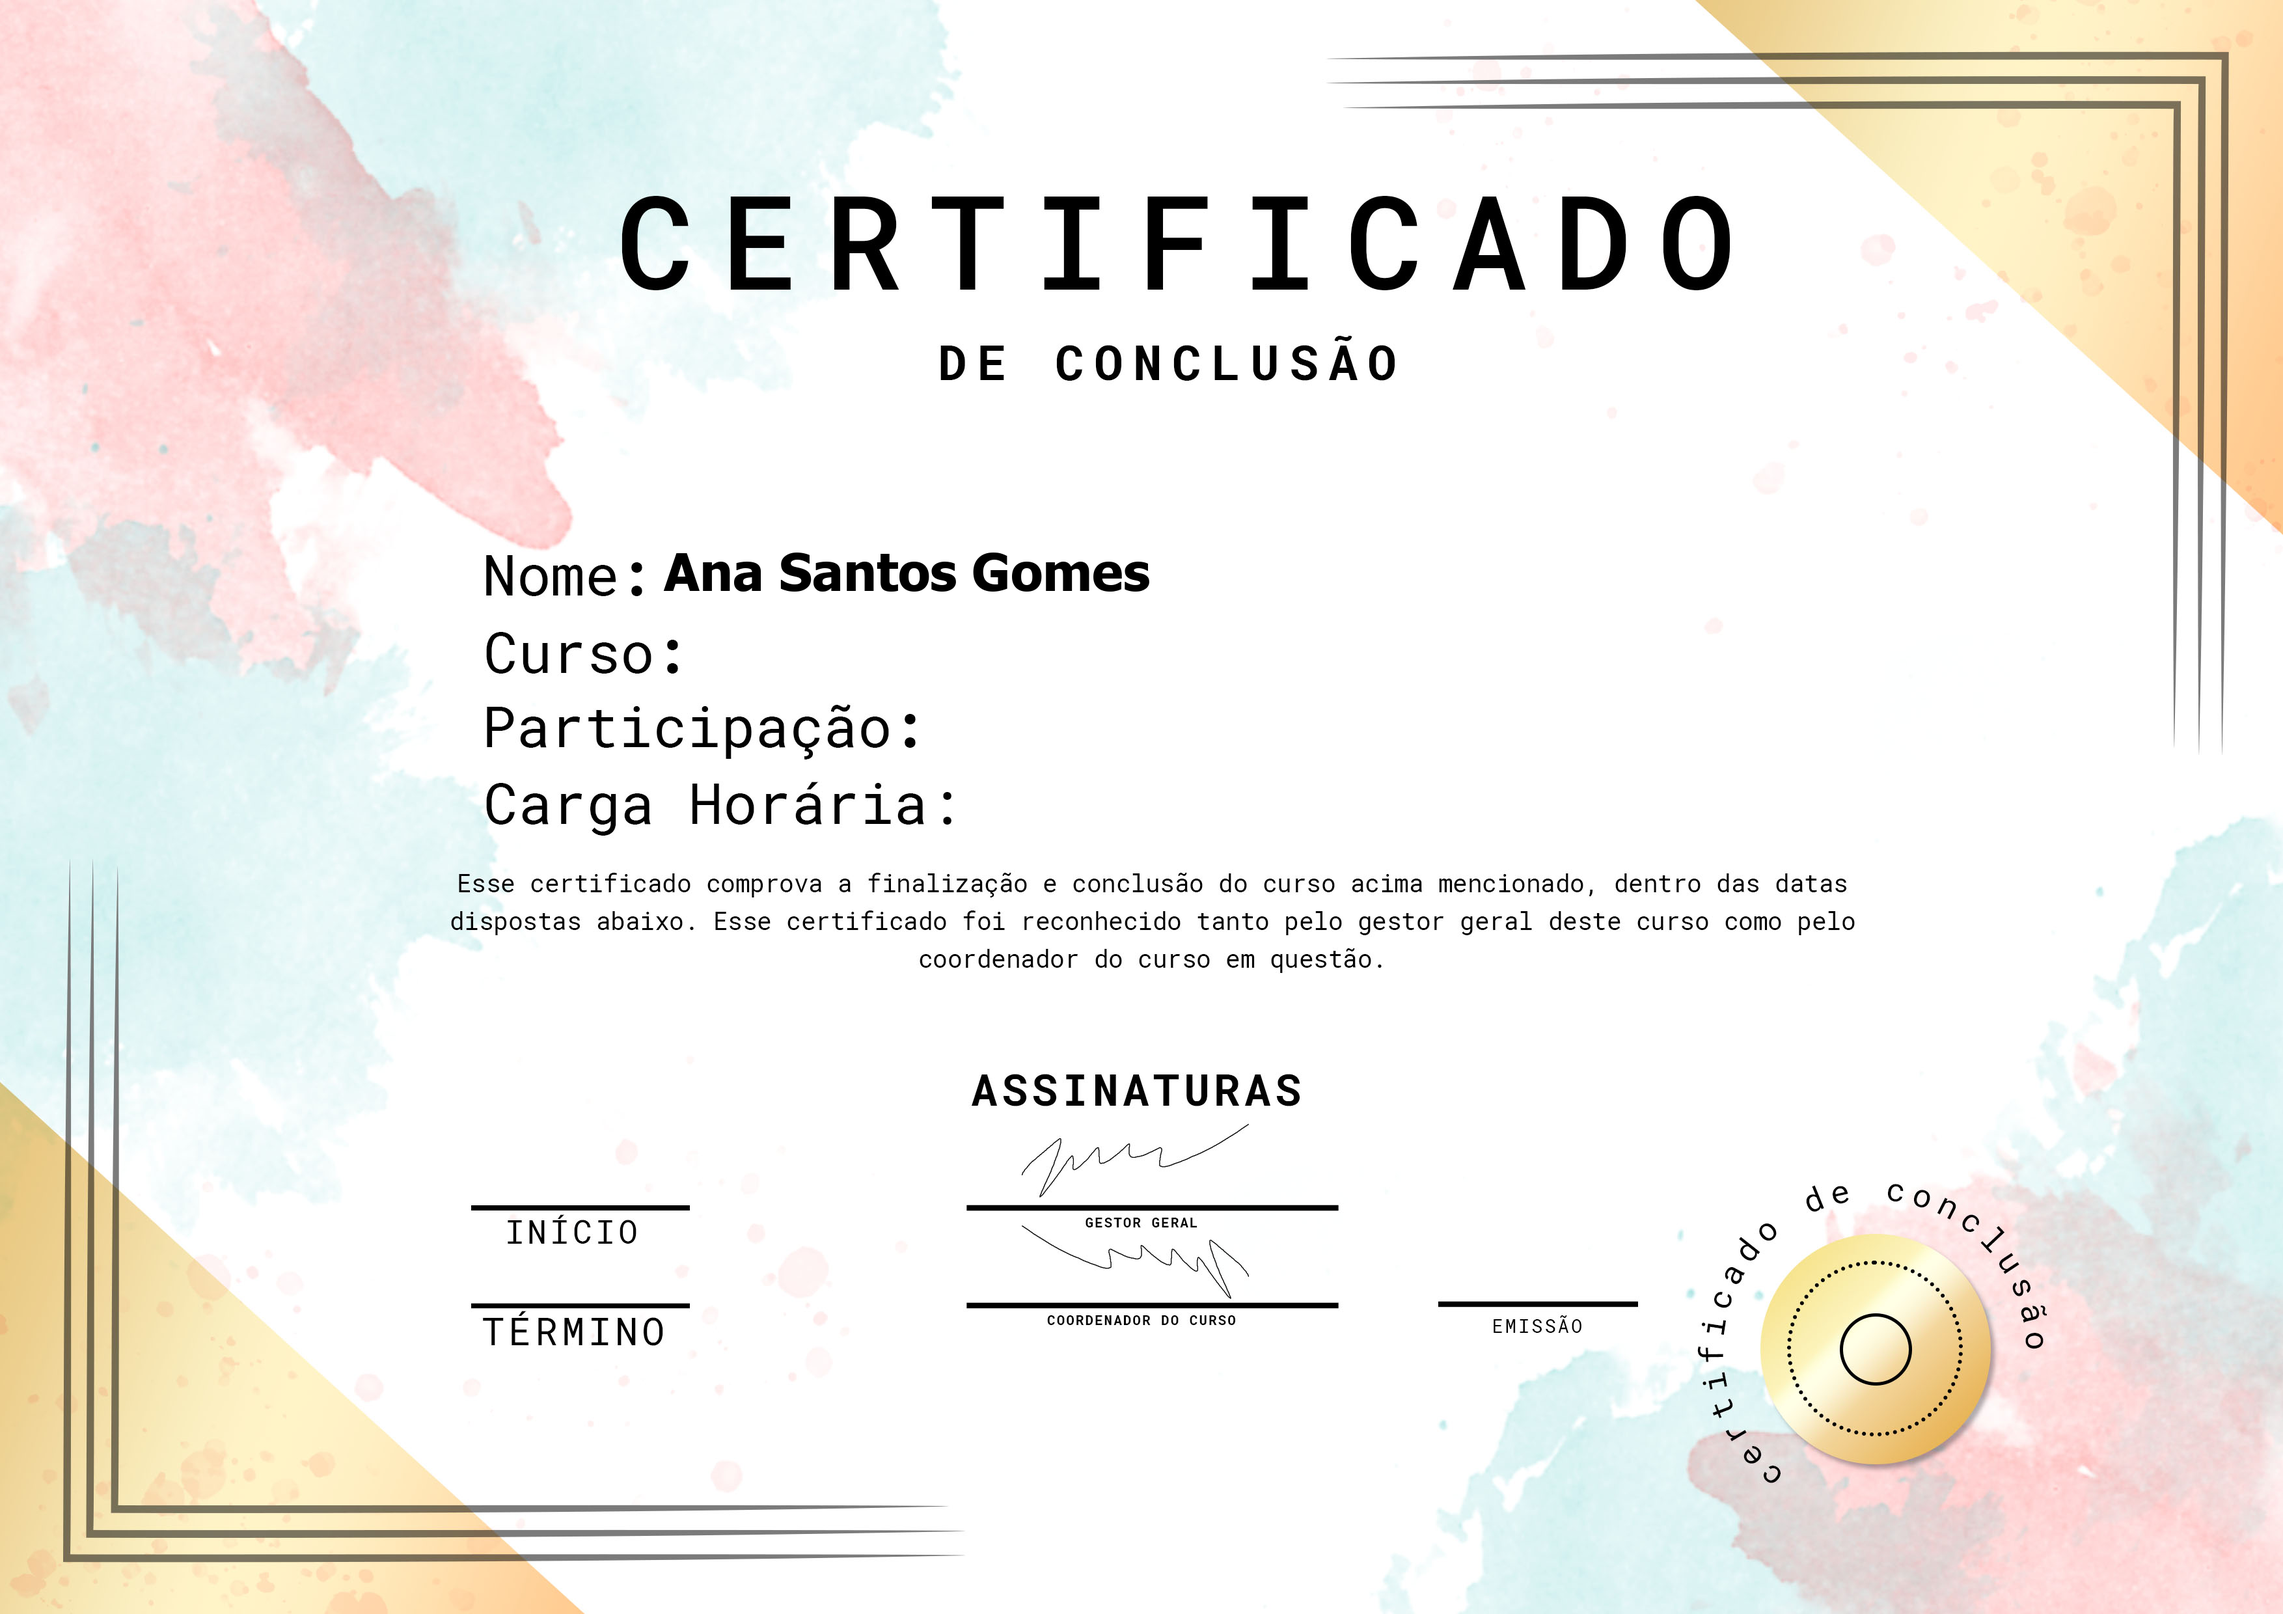
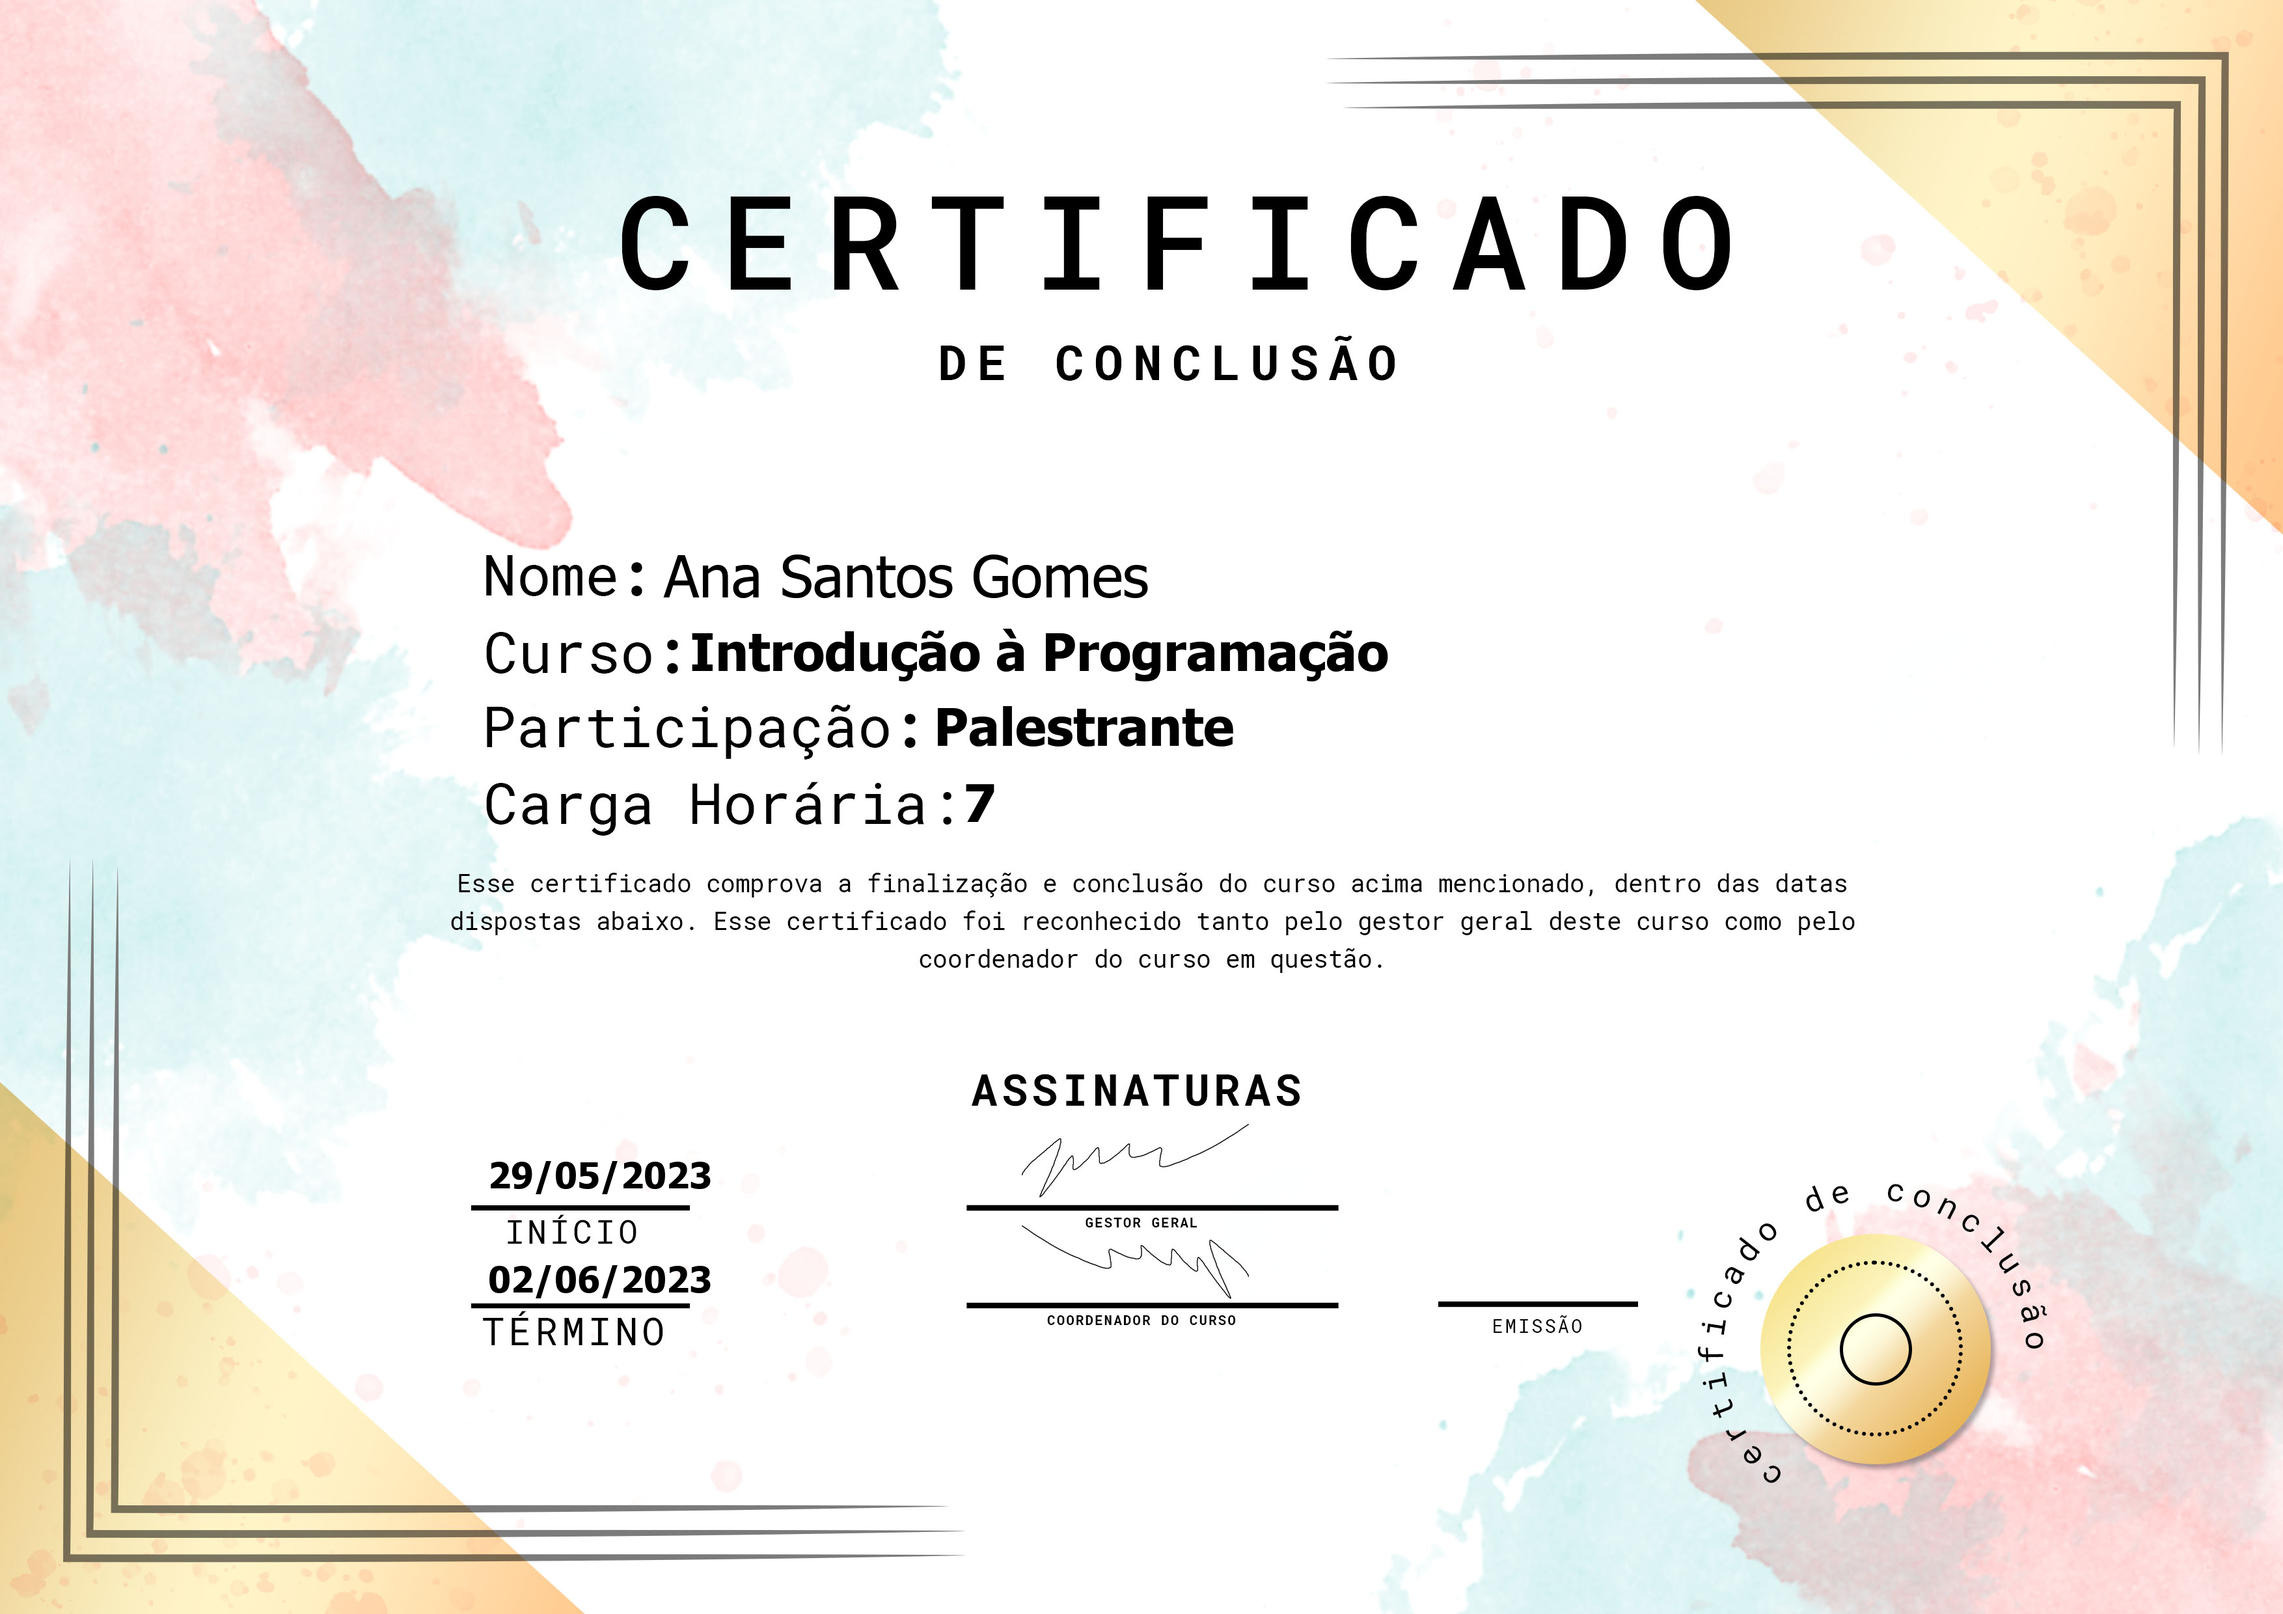
processo final do certificado
certificado fim .

Changed region(s): [[0.2796, 0.3415, 0.6214, 0.4657], [0.2175, 0.7762, 0.3107, 0.8073], [0.2175, 0.7141, 0.3107, 0.7452]]

diff --git a/app.py b/app.py
@@ -9,16 +9,30 @@ for indice,linha in enumerate (sheet_alunos.iter_rows(min_row=2,max_row=2)):
     tipo_participacao = linha[2].value
     data_inicio = linha[3].value
     data_final = linha[4].value
-    carga_Horaria = linha[5].value 
+    carga_horaria = linha[5].value 
     data_emissao = linha[6].value
     
 
     fonte_nome = ImageFont.truetype('./tahoma.ttf',90)
-    fonte_nome = ImageFont.truetype('./tahomabd.ttf',80)
+    fonte_geral = ImageFont.truetype('./tahomabd.ttf',80)
+    fonte_data = ImageFont.truetype('./tahomabd.ttf',55)
 
     image = Image.open('./certificado_padrao.jpg')
     desenhar = ImageDraw.Draw(image)
 
     desenhar.text((1020,827),nome_participante,fill='black',font=fonte_nome)
+
+    desenhar.text((1060,950),nome_curso,fill='black',font=fonte_geral)
+
+    desenhar.text((1435,1065),tipo_participacao,fill='black',font=fonte_geral)
+
+    desenhar.text((1480,1182),str(carga_horaria),fill='black',font=fonte_geral)
+
+    desenhar.text((750,1770),data_inicio,fill='black',font=fonte_data)
+
+    desenhar.text((750,1930),data_final,fill='black',font=fonte_data)
+
+    desenhar.text((2220,1930),data_emissao,fill='black',font=fonte_data)
+    
 
     image.save(f'./(indice)(nome_participante)certificado_padrao.png')
